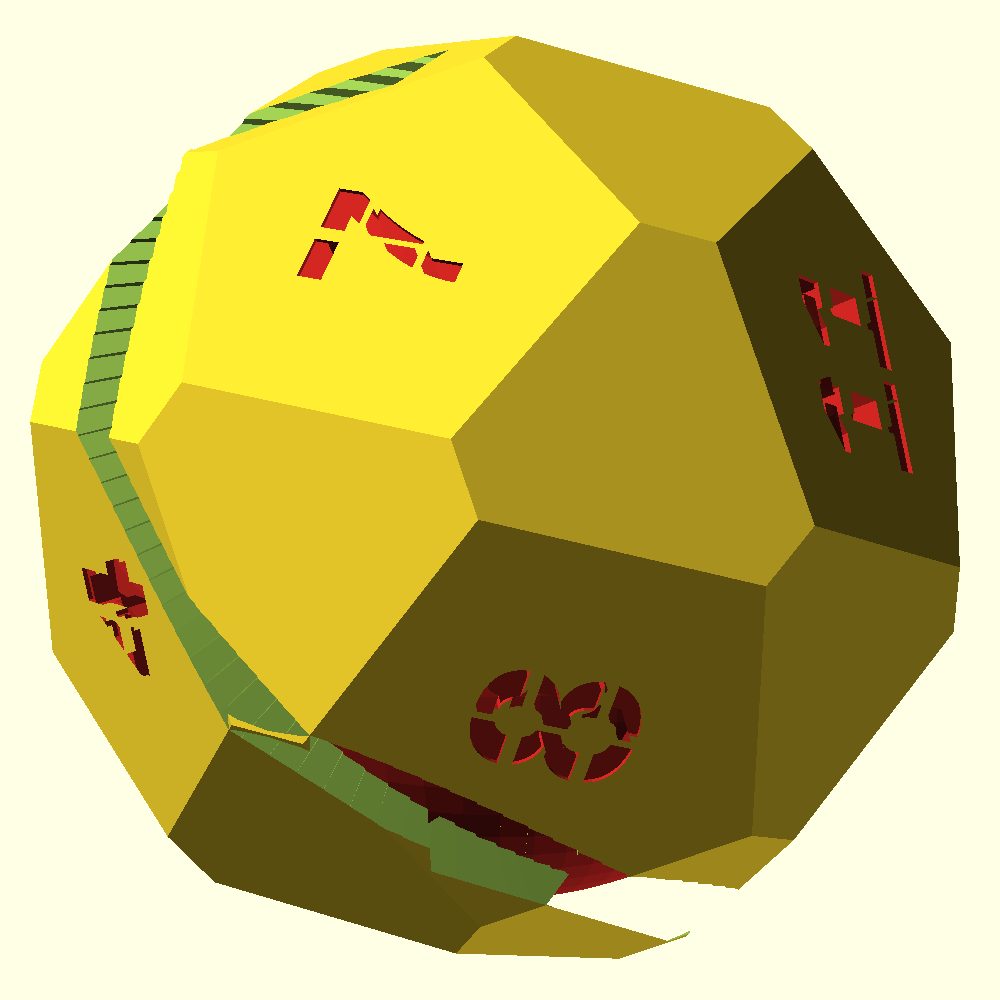
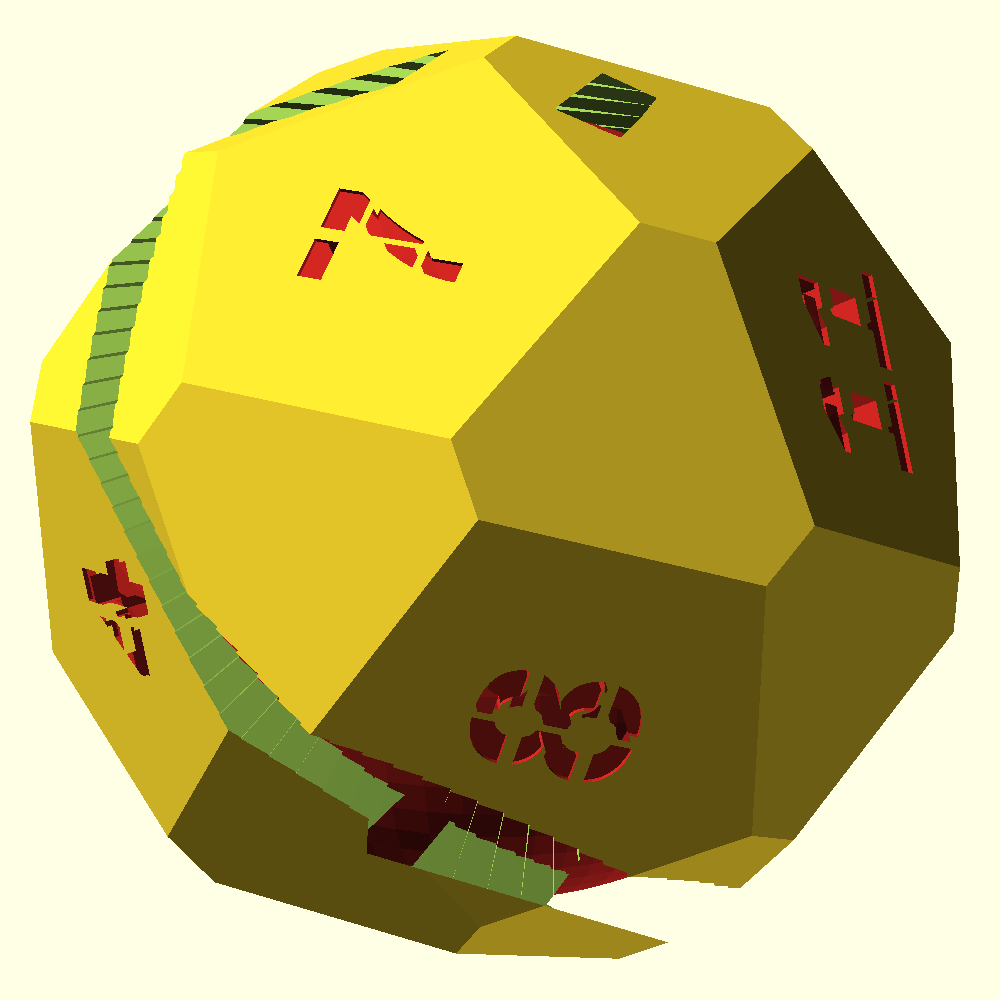
docs(ovodyo): coach round 1 — honesty deferrals, README polish, slot-corner shot
D1 → fork (b): ball-side stalk socket deferred to #604 with interim display
note (not a pole-socket geometry change). Jane J1–J4 and Drik desk/pour lines
land in README; NOTES/PM deferral lists updated. Regen frozen previews on head
geometry and add cameras.conf + CAMERAS.md slot-corner shot for the #768 cut.

Refs #768

diff --git a/designs/ovodyo/README.md b/designs/ovodyo/README.md
@@ -20,7 +20,9 @@ re-creation, in print-bench, of the "ovodyo" clock by Mectolab — built as a
 > structural core** — a ballast keel with sealed shot pockets ([#603](https://github.com/shaiss/print-bench/issues/603)). Several
 > things are still deliberately simplified and tracked as issues: the base gears
 > *represent* the drive but aren't a real meshing involute differential; there is
-> no reusable space-frame library ([#604](https://github.com/shaiss/print-bench/issues/604)); the slot isn't yet a tunable brand
+> no reusable space-frame library ([#604](https://github.com/shaiss/print-bench/issues/604)); the
+> **ball-side stalk hub/socket** (the brass rod seats in the base today; a printed
+> socket in the ball half is [#604](https://github.com/shaiss/print-bench/issues/604) with the real drive); the slot isn't yet a tunable brand
 > module ([#601](https://github.com/shaiss/print-bench/issues/601)); the CoG/tip-over
 > check now runs from `ci.cog` as an **advisory WARN** (it does not fail the gate).
 > The first gate emit on tip `d8d9cf5` measured **STABLE** (38.28 mm clearance
@@ -29,12 +31,17 @@ re-creation, in print-bench, of the "ovodyo" clock by Mectolab — built as a
 > change. ≈55 g of shot remains a **starting fill**; if a run says TIP-RISK,
 > follow the care playbook in NOTES.md rather than treating STABLE as a claim.
 > There's no committed two-tone reveal render yet ([#600](https://github.com/shaiss/print-bench/issues/600)). See NOTES.md.
+>
+> **Desk space:** needs about **40 cm of clear desk** (383 mm base) and **~17 cm of
+> headroom** (balls sit at ~124 mm centres, ~163 mm overall height).
 
 ![Hero — the whole clock](previews/hero.png)
 
 ![4-view contact sheet](previews/contact-sheet.png)
 
 ![A single ball](previews/hours-ball.png)
+
+![Helical slot through a corner](previews/slot-corner.png)
 
 ## What you get
 
@@ -63,7 +70,9 @@ whole clock would print as one fused lump):
 The printable deliverable is the **multi-object plate**, `build/ovodyo-plate.3mf`
 (built by `./scripts/plate.sh ovodyo` from `ci.plate`): the eight production
 parts as eight separate objects a slicer imports as parts — duplicate `base-end`
-and `base-plug` in the slicer to print two of each.
+and `base-plug` in the slicer to print two of each. On a **256 mm bed**, plan on
+**two plates**: the four ball halves alone (they pack 2×2 with shared settings),
+then segment + both ends + core + both plugs on a second plate with margin.
 - `mock-drive` — a single representative reduction gear, kept as a gated
   printability sample of the (otherwise preview-only) drivetrain. It is not a
   placed assembly part and is not included on the production plate.
@@ -86,8 +95,8 @@ gallery preview. Select a part with `-D 'part="hours-top"'` (or `base-mech` /
   support-free. The halves' printcheck caveats are **by-design underside
   texture** on the chamfer facets ringing the pole — they sit ~52° off-axis
   when pole-down and print with slight droop, no support — so **keep
-  auto-supports off**, or the slicer fills the open bowl and welds the stalk
-  boss.
+  auto-supports off**, or the slicer fills the open bowl and welds the seam
+  ring (the captive thread) shut.
 - **Orientation:** ball halves **pole-down** — the flat pole pentagon is the
   first layer and the seam ring is the top of the print (as the parts render);
   truss segments bottom-chord-down (as modeled); mock drive flat; the seam
@@ -148,15 +157,26 @@ one fine line. No glue, no dowels, and it unscrews the same way to reach the
 mechanism. **Print the seam coupon first** (`ovodyo-coupon.scad`: a male ring
 and a female puck side by side) and tune `seam_tol` in 0.05 mm steps until the
 puck runs on by hand with light drag and seats without rattle — then render
-the halves with that value. A brass rod (≈4.5 mm) is the support stalk: it seats into the
-bored boss on each end segment and reaches the ball centre. The three truss
-segments join end to end (printed bolt/flange joints are [#603](https://github.com/shaiss/print-bench/issues/603)).
+the halves with that value. If the coupon's male ring feels tight only at the
+very start of the turn, that's **first-layer squish on the coupon**, not the
+fit — don't loosen `seam_tol` for it; the production seam never touches the bed.
+
+**Stalks (v0 display):** two brass rods (≈Ø4.5 mm) seat snug in the bored bosses
+on each `base-end` — if a rod rattles, a wrap of tape or a drop of CA fixes it;
+don't ream the boss. The **ball halves have no printed pole socket yet** — the
+hero preview unions a cylinder into the shell that no printable part carries.
+Until the hub lands in [#604](https://github.com/shaiss/print-bench/issues/604), stand each assembled ball on its
+flat pole pentagon beside the base, or rest it on the rod tip without claiming a
+retained mount. The three truss segments join end to end (printed bolt/flange
+joints are [#603](https://github.com/shaiss/print-bench/issues/603); tape or a dab of glue holds a temporary join).
 
 **The red core goes in before the clock stands up, and the order matters: 1. fill
 each ballast pocket with Ø2 mm steel shot → 2. wedge a `base-plug` into each port
 → 3. slide the keel into the centre segment** until it drops onto the deck struts
 (it seats one way only). Fill and plug *before* you slide — a seated keel has no
-port access. Press a Ø5 mm silicone bumper into each of the four foot recesses.
+port access. Weigh the pour first (~55 g total starting fill); the Ø3.2 mm ports
+are tight for Ø2 mm shot — tap and shake as you pour so the shot doesn't arch in
+the throat. Press a Ø5 mm silicone bumper into each of the four foot recesses.
 
 The real
 clock is driven by a geared stepper through a bevel differential and homed with a

diff --git a/designs/ovodyo/previews/CAMERAS.md b/designs/ovodyo/previews/CAMERAS.md
@@ -1,0 +1,17 @@
+# Camera descriptions
+
+Per-shot descriptions for `cameras.conf` (the freeze convention: a camera is
+fixed once reviewed; a new region gets a new line).
+
+- **contact-sheet** — the whole clock, 2×2 iso / top / front / bottom-iso. The
+  bottom-iso is the overhang / bed-contact check on the truss chords.
+- **hero** — three-quarter of the assembled clock: two faceted balls on brass
+  stalks over the tapered truss, with the red gear-trains and PCB in the base.
+- **hours-ball** — a single ball three-quarter: flush pentagon plaques, bold
+  cut-through numerals, helical slot framing the red interior.
+- **slot-corner** — close three-quarter aimed at the helical slot where it
+  crosses a corner facet. Added for #768 so the opened corner cut is visible as
+  a shot, not only asserted in NOTES (new region = new line, never a reframe of
+  `hours-ball`).
+- **base-mech** — the base drivetrain alone: geared stepper + reduction train at
+  each pod, bevel take-off up each stalk, central electronics bay.

diff --git a/designs/ovodyo/NOTES.md b/designs/ovodyo/NOTES.md
@@ -242,6 +242,7 @@ red interior/two-tone (preview), and the exposed base drivetrain. What remains:
 | Ball generator is design-local | #600 (promote to `lib/`, with a `tri_k` guard + facet mate) |
 | No committed style pack / stylelift metrics | #601 (style pack + facet/openness metrics) |
 | Ballast pockets + ≈55 g starting fill; `ci.cog` advisory CoG/tip-over (WARN on TIP-RISK); first emit on `d8d9cf5` / PR #789 measured STABLE 38.28 mm — fill still a starting guess, playbook in “TIP-RISK care” | #603 (item 10 remaining: this manifest; platform half #623 / #652) |
+| **No ball-side stalk socket** — brass rod seats in `base-end` only; hero preview's "reaches the ball centre" is not a printable interface (Drik #914) | #604 (hub/bearing with the real drive); page carries the interim display note until then |
 
 ## Tumble kinematics (N2)
 

diff --git a/designs/ovodyo/PM.md b/designs/ovodyo/PM.md
@@ -36,7 +36,9 @@ gears, numerals, slot, core); a committed two-tone reveal render is [#600](https
 
 **Deferred** (in the [#599](https://github.com/shaiss/print-bench/issues/599) backlog): the geodesic-ball lib
 (#600), true stencil numerals (#601), flat parting seam (#602), tapered
-space-frame base (#603), real bevel differential + `ci.plate` deliverable (#604).
+space-frame base (#603), real bevel differential + `ci.plate` deliverable +
+**ball-side stalk hub/socket** (#604 — brass rods seat in `base-end` today; the
+hero's "reaches the ball centre" is preview-only until the hub lands).
 
 **Never:**
 - **Painted two-tone** — the colour comes from geometry + material, not paint (N1).
